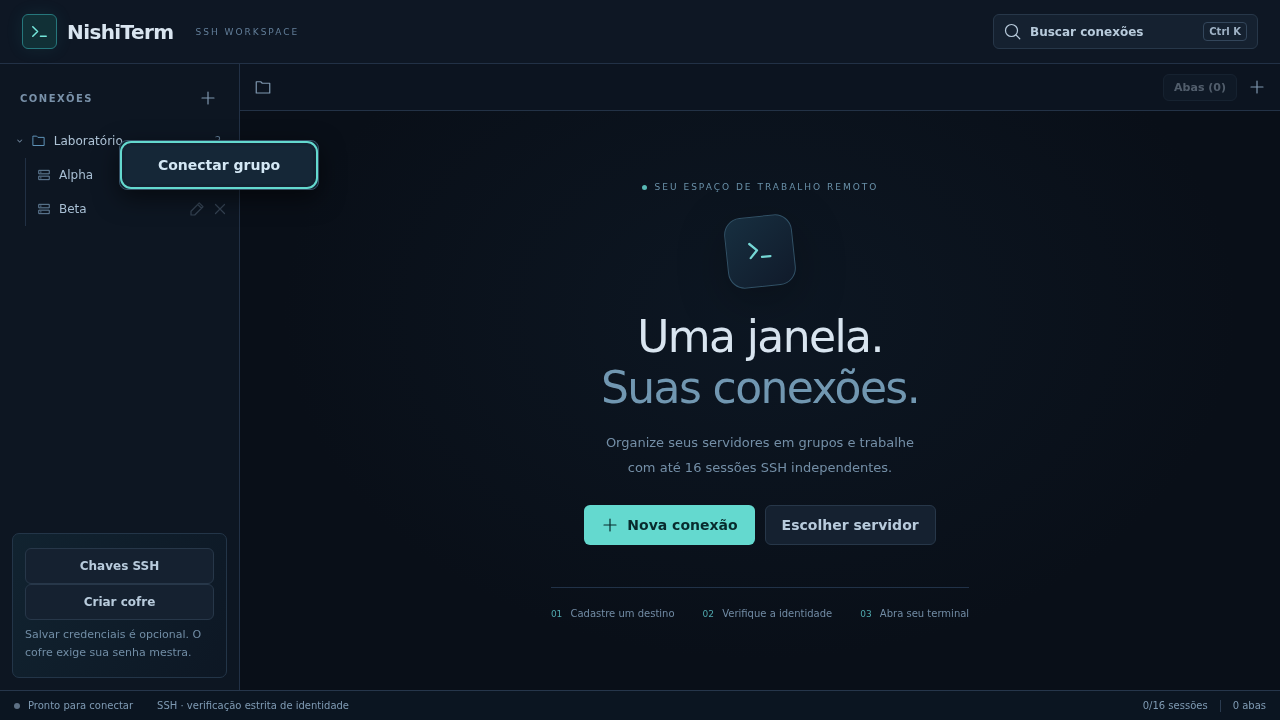
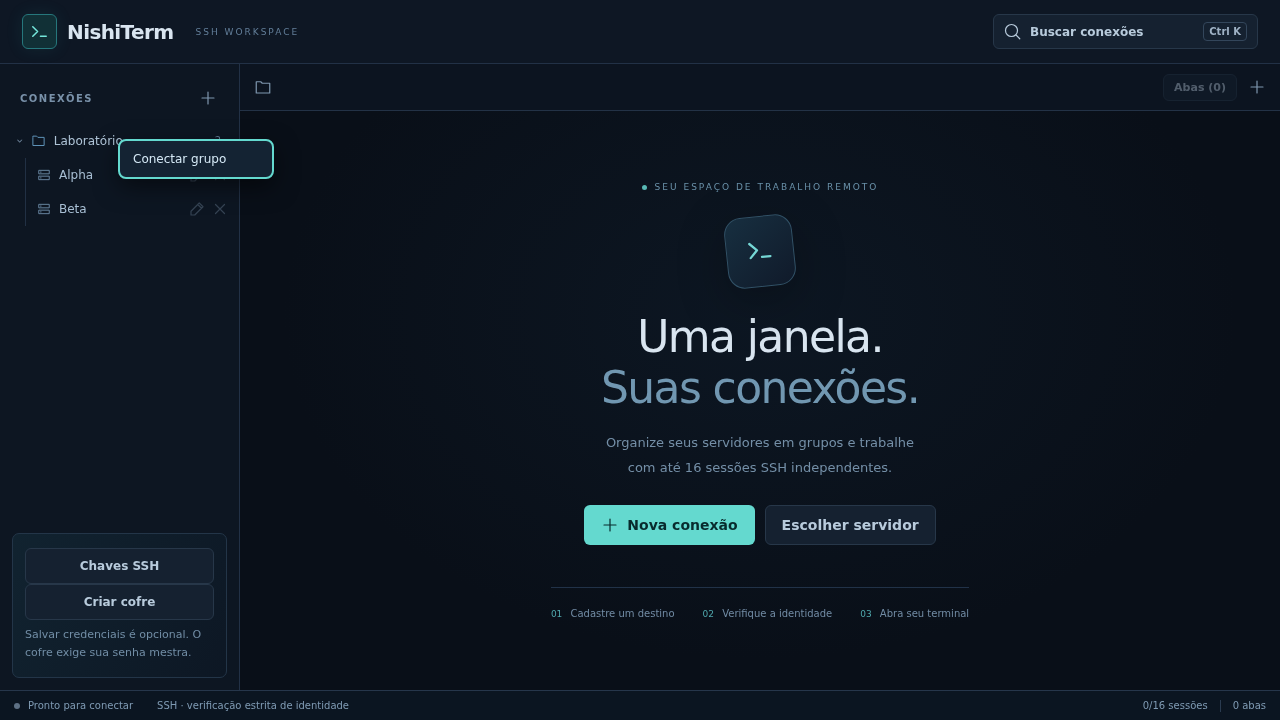
Make group context menu compact and left aligned

Changed region(s): [[0.0938, 0.1833, 0.25, 0.275]]

diff --git a/frontend/src/style.css b/frontend/src/style.css
@@ -1184,15 +1184,21 @@ details.wide summary {
 .group-menu {
   position: fixed;
   z-index: 100;
-  width: 200px;
-  padding: 5px;
+  width: 154px;
+  padding: 3px;
   border: 1px solid #345066;
-  border-radius: 8px;
+  border-radius: 5px;
   background: #142333;
   box-shadow: 0 8px 24px #0008;
 }
 .group-menu button {
   width: 100%;
+  justify-content: flex-start;
+  padding: 5px 9px;
+  border-radius: 3px;
+  font-size: 12px;
+  font-weight: 400;
+  line-height: 18px;
   text-align: left;
   background: transparent;
   color: #d4e8f5;

diff --git a/frontend/src/sidebar-tools.tsx b/frontend/src/sidebar-tools.tsx
@@ -79,8 +79,8 @@ export function GroupMenu({
       aria-label={`Ações de ${menu.group || "Sem grupo"}`}
       className="group-menu"
       style={{
-        left: Math.max(8, Math.min(menu.x, window.innerWidth - 208)),
-        top: Math.max(8, Math.min(menu.y, window.innerHeight - 64)),
+        left: Math.max(8, Math.min(menu.x, window.innerWidth - 162)),
+        top: Math.max(8, Math.min(menu.y, window.innerHeight - 46)),
       }}
       onKeyDown={(e) => {
         if (e.key === "Escape" || e.key === "Tab") {
